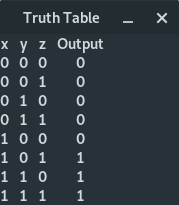
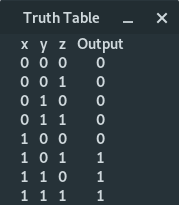
clean up

diff --git a/src/main.rs b/src/main.rs
@@ -2,6 +2,7 @@ use gtk::{Window, Entry, Label, Grid, WindowType, ContainerExt, WidgetExt, Label
 use permutator::CartesianProduct;
 use eval::{eval, Value};
 
+// useful trait
 trait AddIfNotExists<T>{
     fn add_if_not_exists(&mut self, _e: T) {}
 }
@@ -83,6 +84,7 @@ impl SecondPage {
     fn create_grid() -> Grid {
         let grid = Grid::new();
         grid.set_column_spacing(10);
+        grid.set_margin_start(20);
         grid
     }
 }
@@ -105,11 +107,11 @@ impl Pages {
            let entry_text = entry.get_text().expect("Error while reading entry formula");
            let (var_labels, var_values) = parse(&entry_text);
            let grid = second_page_grid.clone();
-           Self::fill_grid(grid, var_labels, var_values);
+           Self::fill_grid(&grid, &var_labels, &var_values);
 
         });
     }
-    fn fill_grid(grid: Grid, labels: Vec<char>, values: Vec<(Vec<&'static str>, Value)>) {
+    fn fill_grid(grid: &Grid, labels: &[char], values: &[(Vec<&'static str>, Value)]) {
         let last_col = labels.len() as i32;
         for (idx,label) in labels.iter().enumerate() {
             let label_text = label.to_string();
@@ -121,9 +123,9 @@ impl Pages {
         for (row, (inputs, output)) in values.iter().rev().enumerate() {
             let row = (row + 1) as i32;
             let inputs: Vec<&str> = inputs.iter().map(|v|{
-                match v {
-                    &"true" => "1",
-                    &"false" => "0",
+                match *v {
+                    "true" => "1",
+                    "false" => "0",
                     _ => unreachable!(),
                 }
             }).collect();
@@ -150,31 +152,21 @@ fn parse(text: &str) -> (Vec<char>, Vec<(Vec<&'static str>, Value)>){
         let text = text.to_lowercase().replace(" ", "");
         // en
         let text = text.replace("and", "&&").replace("or", "||").replace("not", "!");
-        // fr
-        let text = text.replace("et", "&&").replace("ou", "||").replace("non", "!");
-        
-        text
+        // also fr cause why not
+        text.replace("et", "&&").replace("ou", "||").replace("non", "!")        
         };
     let mut vars = Vec::new();
     let mut results = Vec::new();
 
-    {
-        // find variables 
-        let mut chars = text.chars();
+    // find variables 
+    for ch in text.chars() {
 
-        while let Some(ch) = chars.next() {
-
-            match ch {
-
-                // VARS
-                'a'...'z' => vars.add_if_not_exists(ch),
-                // SKIP
-                _ => (),
-                
-            }
-
+        if let 'a'...'z' = ch {
+            vars.add_if_not_exists(ch);       
         }
-    };
+
+    }
+
     {   
         let mut all_possibilities:Vec<Vec<&str>> = Vec::new();
         {   // Given the input variables, generate all possibilities 
